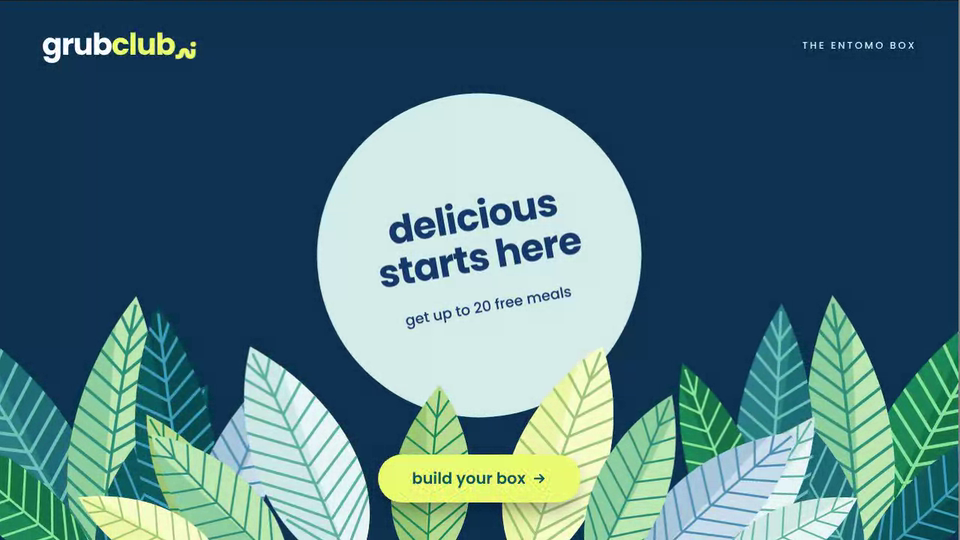
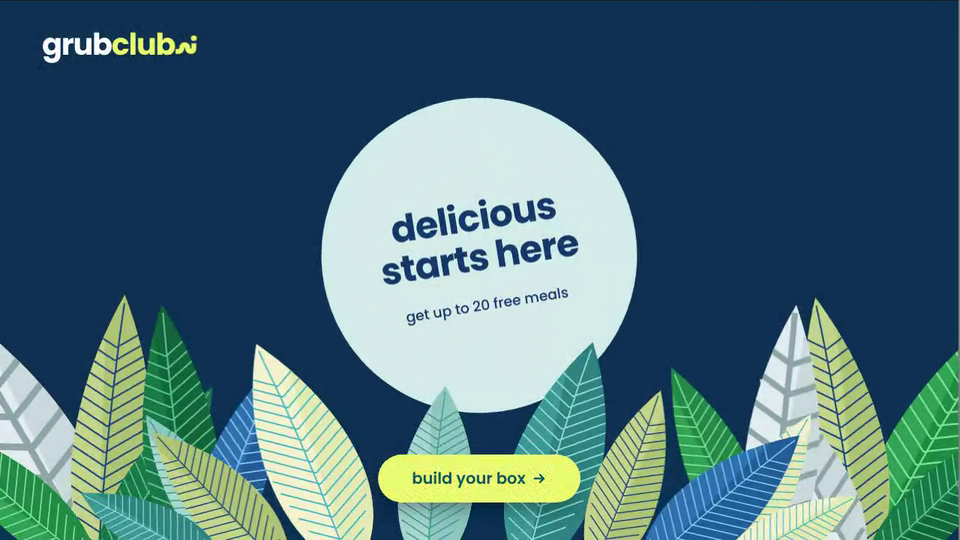
Grubclub Order: pouch-style leaves, flat pack illustrations, worm on baseline (#159)
* Grubclub Order: pouch-style leaves, logo worm sits on the baseline

Claude-Session: https://claude.ai/code/session_01AHeBdxhV8CCLctwk6eqLXm

* Grubclub Order: flat pouch/tub illustrations on the meal cards, drop hero tag

Claude-Session: https://claude.ai/code/session_01AHeBdxhV8CCLctwk6eqLXm

* Grubclub Order: dark green logo on the pick page

Claude-Session: https://claude.ai/code/session_01AHeBdxhV8CCLctwk6eqLXm

---------

diff --git a/grubclub-order/index.html b/grubclub-order/index.html
@@ -31,7 +31,7 @@ main{flex:1;min-height:0;position:relative;overflow:hidden;background:#07213a}
 .scene{position:absolute;inset:0;visibility:hidden;overflow:hidden}
 .scene.on{visibility:visible}
 .abs{position:absolute}
-.logo{font-weight:700;letter-spacing:-.035em;line-height:1;white-space:nowrap;display:inline-flex;align-items:flex-end}
+.logo{font-weight:700;letter-spacing:-.035em;line-height:1;white-space:nowrap;display:inline-flex;align-items:baseline}
 .logo i{font-style:normal}
[1 lines of base64/hex data omitted]
 
@@ -40,27 +40,26 @@ main{flex:1;min-height:0;position:relative;overflow:hidden;background:#07213a}
 #s0 svg.bg{position:absolute;inset:0;width:100%;height:100%}
 #hLogo{left:56px;top:38px;font-size:40px;color:#fff}
 #hLogo i{color:var(--kiwi)}
-#hTag{right:56px;top:50px;font-size:13px;font-weight:500;letter-spacing:.22em;color:var(--egg)}
-#hLogo,#hTag,#cta{opacity:0;transform:translateY(14px);transition:opacity calc(.7s*var(--k)),transform calc(.7s*var(--k)) cubic-bezier(.2,.8,.2,1)}
-#hLogo.in,#hTag.in,#cta.in{opacity:1;transform:none}
+#hLogo,#cta{opacity:0;transform:translateY(14px);transition:opacity calc(.7s*var(--k)),transform calc(.7s*var(--k)) cubic-bezier(.2,.8,.2,1)}
+#hLogo.in,#cta.in{opacity:1;transform:none}
 #cta{left:50%;bottom:50px;margin-left:-135px;width:270px;height:64px;border-radius:999px;background:var(--kiwi);color:var(--bean);font:600 21px/64px Poppins,sans-serif;text-align:center;box-shadow:0 14px 30px -10px rgba(0,0,0,.45);cursor:pointer;border:0;transition:opacity calc(.7s*var(--k)),transform calc(.7s*var(--k)) cubic-bezier(.2,.8,.2,1),background .2s}
 #cta.in.press{transform:scale(.96)}
 #cta svg{width:20px;height:20px;vertical-align:-3px;margin-left:8px}
 
 /* ===== 2 pick ===== */
 #s1{background:var(--paper);color:var(--navy)}
-#pLogo{left:56px;top:30px;font-size:30px;color:var(--navy)}
-#pLogo i{color:var(--kale)}
+#pLogo{left:56px;top:30px;font-size:30px;color:var(--bean)}
+#pLogo i{color:var(--bean)}
 #pStep{right:56px;top:40px;font-size:12px;font-weight:600;letter-spacing:.2em;color:var(--bean);display:flex;gap:18px}
 #pStep em{font-style:normal;opacity:.4}#pStep em.a{opacity:1}
 #pHead{left:56px;top:92px}
 #pHead h1{margin:0;font-size:42px;line-height:1.1;font-weight:700;letter-spacing:-.01em}
 #pHead p{margin:8px 0 0;font-size:17px;color:#3d6f74}
-#grid{left:56px;top:222px;width:744px;display:grid;grid-template-columns:repeat(3,1fr);gap:20px}
-.card{background:#fff;border-radius:22px;padding:14px;height:220px;box-shadow:0 10px 24px -14px rgba(14,50,81,.35);opacity:0;transform:translateY(26px);transition:opacity calc(.5s*var(--k)),transform calc(.6s*var(--k)) cubic-bezier(.2,.8,.2,1),box-shadow .3s,outline-color .3s;outline:3px solid transparent;outline-offset:-1px}
+#grid{left:56px;top:206px;width:744px;display:grid;grid-template-columns:repeat(3,1fr);gap:20px}
+.card{background:#fff;border-radius:22px;padding:14px;height:232px;box-shadow:0 10px 24px -14px rgba(14,50,81,.35);opacity:0;transform:translateY(26px);transition:opacity calc(.5s*var(--k)),transform calc(.6s*var(--k)) cubic-bezier(.2,.8,.2,1),box-shadow .3s,outline-color .3s;outline:3px solid transparent;outline-offset:-1px}
 #s1.in .card{opacity:1;transform:none;transition-delay:calc(var(--i)*70ms*var(--k))}
 #s1.in .card.sel{transition-delay:0s;transform:translateY(-4px);outline-color:var(--matcha)}
-.card .il{height:104px;border-radius:14px;overflow:hidden;background:var(--navy)}
+.card .il{height:120px;border-radius:14px;overflow:hidden;background:var(--navy)}
 .card h4{margin:10px 0 0;height:39px;font-size:15px;line-height:1.3;font-weight:600;letter-spacing:-.005em}
 .card .rw{display:flex;justify-content:space-between;align-items:center;margin-top:7px}
 .card .rw small{font-size:12px;color:#4d8184;font-weight:500}
@@ -149,13 +148,12 @@ main{flex:1;min-height:0;position:relative;overflow:hidden;background:#07213a}
         <text class="hl" y="74" font-size="19" font-weight="500" letter-spacing="0">get up to 20 free meals</text></g></g>
     <g id="hFront"></g></svg>
   <div class="abs logo" id="hLogo">grub<i>club</i><span class="wm" style="color:var(--kiwi)"></span></div>
-  <div class="abs" id="hTag">THE ENTOMO BOX</div>
   <div class="abs" id="cta" role="button">build your box<svg viewBox="0 0 20 20" fill="none" stroke="currentColor" stroke-width="2.4" stroke-linecap="round" stroke-linejoin="round"><path d="M4 10h12M11 5l5 5-5 5"/></svg></div>
 </section>
 
 <!-- 2 pick -->
 <section class="scene" id="s1" aria-label="Pick your meals">
-  <div class="abs logo" id="pLogo">grub<i>club</i><span class="wm" style="color:var(--kale)"></span></div>
+  <div class="abs logo" id="pLogo">grub<i>club</i><span class="wm" style="color:var(--bean)"></span></div>
   <div class="abs" id="pStep"><em class="a">1 PICK</em><em>2 PACK</em><em>3 DELIVER</em></div>
   <div class="abs" id="pHead"><h1>pick your meals</h1><p>choose 4 you like for your entomo box</p></div>
   <div class="abs" id="grid"></div>
@@ -220,14 +218,17 @@ function W(ms,g){return new Promise((res,rej)=>{let left=ms*K,last=performance.n
 function tween(ms,g,fn){return new Promise((res,rej)=>{let el=0,last=performance.now();const tick=now=>{if(g!==gen)return rej(CANCEL);if(!paused)el+=now-last;last=now;const p=clamp(el/(ms*K));fn(p);p>=1?res():requestAnimationFrame(tick)};requestAnimationFrame(tick)})}
 
 /* ============ leaves (the lush collage) ============ */
-const LS=[{f:'#CFE9E4',g:'#E7F6F2',v:'#5FB0A4'},{f:'#8FCFA0',g:'#BDE8B4',v:'#2E8F7A'},{f:'#2B7F86',g:'#1F6C78',v:'#6DC3B5'},{f:'#1C8859',g:'#167249',v:'#8CE39B'},
- {f:'#EEF6A8',g:'#F8FCCB',v:'#9EC878'},{f:'#A8C7DA',g:'#C9DEEA',v:'#4F8FB5'},{f:'#0F5A5C',g:'#0B4A4F',v:'#3FA0BE'},{f:'#9EC878',g:'#B8DB92',v:'#1C8859'}];
-function leafG(o){const L=o.L,W_=o.W,b=o.b||0,S=LS[o.s],id='c'+(uid++);
-  const d=`M0 0C${W_} ${-L*.2} ${W_+b*.5} ${-L*.65} ${b} ${-L}C${-W_+b*.5} ${-L*.65} ${-W_} ${-L*.2} 0 0Z`;
-  let v='';const n=Math.max(4,Math.round(L/31));
-  for(let i=1;i<=n;i++){const f=i/(n+1),y=-L*f*.93,mx=b*f*f,ew=W_*(.35+.85*Math.sin(Math.PI*Math.min(1,f+.04)));v+=`M${mx} ${y}L${mx+ew} ${y-W_*.8}M${mx} ${y}L${mx-ew} ${y-W_*.8}`}
+/* leaf styles sampled from the pouch illustration: f = fill, g = darker half along the midrib, v = vein colour, t = h (thin hairlines) | b (wide bands) | f (flat) */
+const LS=[{f:'#F3F4CF',g:'#E4EBB4',v:'#45B9BF',t:'h'},{f:'#C6D58C',g:'#B0C575',v:'#1D4A7C',t:'h'},{f:'#E3ECEE',g:'#CBDADC',v:'#8DA8A5',t:'b'},{f:'#33A653',g:'#238C45',v:'#7FE0A0',t:'h'},
+ {f:'#3E9C97',g:'#2F857F',v:'#9ADBD3',t:'h'},{f:'#2F72B2',g:'#245E98',v:'#8CCBEC',t:'h'},{f:'#1B7A4A',g:'#14663C',v:'#5FCB86',t:'h'},{f:'#A9D8CF',g:'#90C9BF',v:'#3E9C97',t:'h'}];
+function leafG(o){const L=o.L,W_=o.W,b=o.b||0,S=LS[o.s],id='c'+(uid++),k=((o.x*7+o.y*3+o.r*5)%5+5)%5,Wl=W_*(.74+k*.07),Wr=W_;
+  const d=`M0 0C${Wr} ${-L*.16} ${Wr+b*.5} ${-L*.6} ${b} ${-L}C${-Wl+b*.5} ${-L*.62} ${-Wl} ${-L*.2} 0 0Z`;
+  let v='';const band=S.t==='b',step=band?Math.max(14,L/9):Math.max(7,L/21),n=Math.floor(L*.84/step);
+  if(S.t!=='f'){for(let i=1;i<=n;i++){const f=i*step/L,y=-L*f,mx=b*f*f,ew=Math.sin(Math.PI*Math.min(1,f*.92+.06)),er=(band?1.05:.86)*Wr*ew,el=(band?1.05:.86)*Wl*ew,sl=band?.5:.62;
+    v+=`M${mx} ${y}L${mx+er} ${y-er*sl}M${mx} ${y}L${mx-el} ${y-el*sl}`}}
   v+=`M0 0Q${b*.2} ${-L*.5} ${b} ${-L*.97}`;
-  return `<g class="lf" transform="translate(${o.x} ${o.y}) rotate(${o.r})"><clipPath id="${id}"><path d="${d}"/></clipPath><path d="${d}" fill="${S.f}"/><g clip-path="url(#${id})"><rect x="0" y="${-L}" width="${W_*2.5}" height="${L}" fill="${S.g}"/><path d="${v}" fill="none" stroke="${S.v}" stroke-width="${Math.max(1.5,L/95).toFixed(1)}" stroke-linecap="butt"/></g></g>`}
+  const sw=band?Math.max(3,L/46):Math.max(1.1,L/170);
+  return `<g class="lf" transform="translate(${o.x} ${o.y}) rotate(${o.r})"><clipPath id="${id}"><path d="${d}"/></clipPath><path d="${d}" fill="${S.f}"/><g clip-path="url(#${id})"><rect x="0" y="${-L}" width="${W_*2.5}" height="${L}" fill="${S.g}"/><path d="${v}" fill="none" stroke="${S.v}" stroke-width="${sw.toFixed(1)}" stroke-linecap="butt"/></g></g>`}
 const LF=a=>a.map(x=>leafG({x:x[0],y:x[1],r:x[2],L:x[3],W:x[4],b:x[5],s:x[6]})).join('');
 
 /* ============ meals ============ */
@@ -240,8 +241,31 @@ const MEALS=[
  {n:'matcha cricket protein bar',s:'matcha protein bar',g:'40g',c:'#D7F5FA'}];
 const PICKS=[0,1,4,5];
 
-function mini(m,i){const j=(i%3-1)*6;
-  return `<svg viewBox="0 0 210 104" width="100%" height="100%" preserveAspectRatio="xMidYMid slice">${LF([[24,114,28+j,84,18,8,2],[46,114,54-j,60,15,-6,0],[188,114,-30-j,86,19,-8,1],[166,114,-56+j,62,15,6,3],[110,112,-2,0.1,0.1,0,0]].slice(0,4))}<circle class="cc" cx="105" cy="50" r="33" fill="${m.c}"/><text x="105" y="56" text-anchor="middle" font-family="Poppins,sans-serif" font-weight="700" font-size="15" fill="#14396B">${m.g}</text>${LF([[92,114,-8,40,12,4,0],[124,114,12,34,10,-4,4]])}</svg>`}
+/* flat illustrated packs for the meal cards: k = p (stand-up pouch) | t (tub with lid) */
+const PACK=[
+ {k:'p',body:'#14447C',ink:'#fff',cir:'#D6ECE8',nm:['lightly','salted'],lv:[3,5]},
+ {k:'t',body:'#8DB83C',ink:'#fff',nm:['chili lime','crisps'],lv:[6,3]},
+ {k:'p',body:'#1B7A4A',ink:'#fff',cir:'#EEF6A8',nm:['cricket','trail mix'],lv:[0,7]},
+ {k:'t',body:'#E6EDB0',ink:'#0E3251',nm:['wasabi','bites'],lv:[7,4]},
+ {k:'t',body:'#2F9A74',ink:'#fff',nm:['brownie','mix'],lv:[0,1]},
+ {k:'p',body:'#A9D8CF',ink:'#0E3251',cir:'#fff',nm:['matcha','bar'],lv:[6,4]}];
+function mini(m,i){const P=PACK[i],j=(i%3-1)*5,id='k'+(uid++),back=LF([[20,128,28+j,92,19,8,4],[46,128,52-j,66,16,-6,7],[192,128,-28-j,94,20,-8,6],[166,128,-54+j,68,16,6,2]]);
+  const tub='M77 24H133L130 80Q129 88 121 88H89Q81 88 80 80Z',pouch='M77 8H133L135 86Q105 94 75 86Z';
+  const spr=`${LF([[88,92,-14,30,9,4,P.lv[0]],[108,94,6,34,10,-4,P.lv[1]],[126,92,24,28,9,5,P.lv[0]]])}`;
+  let g;
+  if(P.k==='t'){
+    g=`<clipPath id="${id}"><path d="${tub}"/></clipPath><path d="${tub}" fill="${P.body}"/>
+    <g clip-path="url(#${id})">${spr}</g>
+    <path d="M70 24V15Q70 12 73 12H76L79 5H131L134 12H137Q140 12 140 15V24Z" fill="#165B63"/>
+    <text x="84" y="38" font-family="Poppins,sans-serif" font-weight="700" font-size="6.5" fill="${P.ink}">grubclub</text>
+    <text font-family="Poppins,sans-serif" font-weight="700" font-size="10.5" letter-spacing="-.3" fill="${P.ink}"><tspan x="84" y="52">${P.nm[0]}</tspan><tspan x="84" y="63">${P.nm[1]}</tspan></text>`}
+  else{
+    g=`<clipPath id="${id}"><path d="${pouch}"/></clipPath><path d="${pouch}" fill="${P.body}"/>
+    <g clip-path="url(#${id})">${spr}<rect x="70" y="8" width="70" height="8" fill="#000" opacity=".2"/><path d="M80 12H130" stroke="#fff" stroke-opacity=".35" stroke-width="1" stroke-dasharray="2 2"/></g>
+    <text x="105" y="29" text-anchor="middle" font-family="Poppins,sans-serif" font-weight="700" font-size="6.5" fill="${P.ink}">grubclub</text>
+    <circle cx="105" cy="55" r="21" fill="${P.cir}"/>
+    <text text-anchor="middle" font-family="Poppins,sans-serif" font-weight="700" font-size="8.5" letter-spacing="-.2" fill="#14396B"><tspan x="105" y="53">${P.nm[0]}</tspan><tspan x="105" y="63">${P.nm[1]}</tspan></text>`}
+  return `<svg viewBox="0 0 210 120" width="100%" height="100%" preserveAspectRatio="xMidYMid slice">${back}<g class="cc" transform="translate(105 61) scale(1.2) translate(-105 -48)">${g}</g></svg>`}
 
 /* ============ build static DOM ============ */
 $('#grid').innerHTML=MEALS.map((m,i)=>`<div class="card" style="--i:${i}" data-i="${i}"><div class="il">${mini(m,i)}</div><h4>${m.n}</h4><div class="rw"><small>${m.g}</small><div class="add">+ add</div></div></div>`).join('');
@@ -293,10 +317,10 @@ function showCursor(){cursor.style.opacity=1}
 /* ============ scenes ============ */
 const scenes=[
 async function hero_(g,o){
-  hero.t=o.clip?3.4:0;show(0);$$('#hLogo,#hTag,#cta').forEach(e=>e.classList.remove('in','press'));
+  hero.t=o.clip?3.4:0;show(0);$$('#hLogo,#cta').forEach(e=>e.classList.remove('in','press'));
   const tm=o.clip?0:1;
-  if(o.clip)$$('#hLogo,#hTag,#cta').forEach(e=>e.classList.add('in'));
-  else{await W(500,g);$('#hLogo').classList.add('in');await W(400,g);$('#hTag').classList.add('in');await W(1000,g);$('#cta').classList.add('in');await W(2300,g)}
+  if(o.clip)$$('#hLogo,#cta').forEach(e=>e.classList.add('in'));
+  else{await W(500,g);$('#hLogo').classList.add('in');await W(1400,g);$('#cta').classList.add('in');await W(2300,g)}
   if(o.clip)await W(700,g);
   const c=cen($('#cta'));curSet(c.x+420,c.y+200);showCursor();await W(50,g);curGo(c.x,c.y+4,900);await W(1000,g);
   $('#cta').classList.add('press');await curClick(g);await W(120,g);return{x:c.x,y:c.y}},
@@ -342,8 +366,8 @@ $('#pp').onclick=()=>{if(started===false){started=true;paused=false;play({from:c
 let started=false,cur_=0;
 $$('.ctl [data-s]').forEach(b=>b.onclick=()=>{cur_=+b.dataset.s;started=true;play({from:cur_})});
 window.gc={play,
-  park(){gen++;paused=false;K=1;document.documentElement.style.setProperty('--k',1);hero.t=3.4;show(0);$$('#hLogo,#hTag,#cta').forEach(e=>e.classList.add('in'));syncPP()}};
-document.fonts.ready.then(()=>{syncPP();if(location.search.includes('park'))gc.park();else if(reduce){hero.t=3.4;show(0);$$('#hLogo,#hTag,#cta').forEach(e=>e.classList.add('in'));paused=true;syncPP()}else{started=true;play({})}});
+  park(){gen++;paused=false;K=1;document.documentElement.style.setProperty('--k',1);hero.t=3.4;show(0);$$('#hLogo,#cta').forEach(e=>e.classList.add('in'));syncPP()}};
+document.fonts.ready.then(()=>{syncPP();if(location.search.includes('park'))gc.park();else if(reduce){hero.t=3.4;show(0);$$('#hLogo,#cta').forEach(e=>e.classList.add('in'));paused=true;syncPP()}else{started=true;play({})}});
 </script>
 </body>
 </html>
